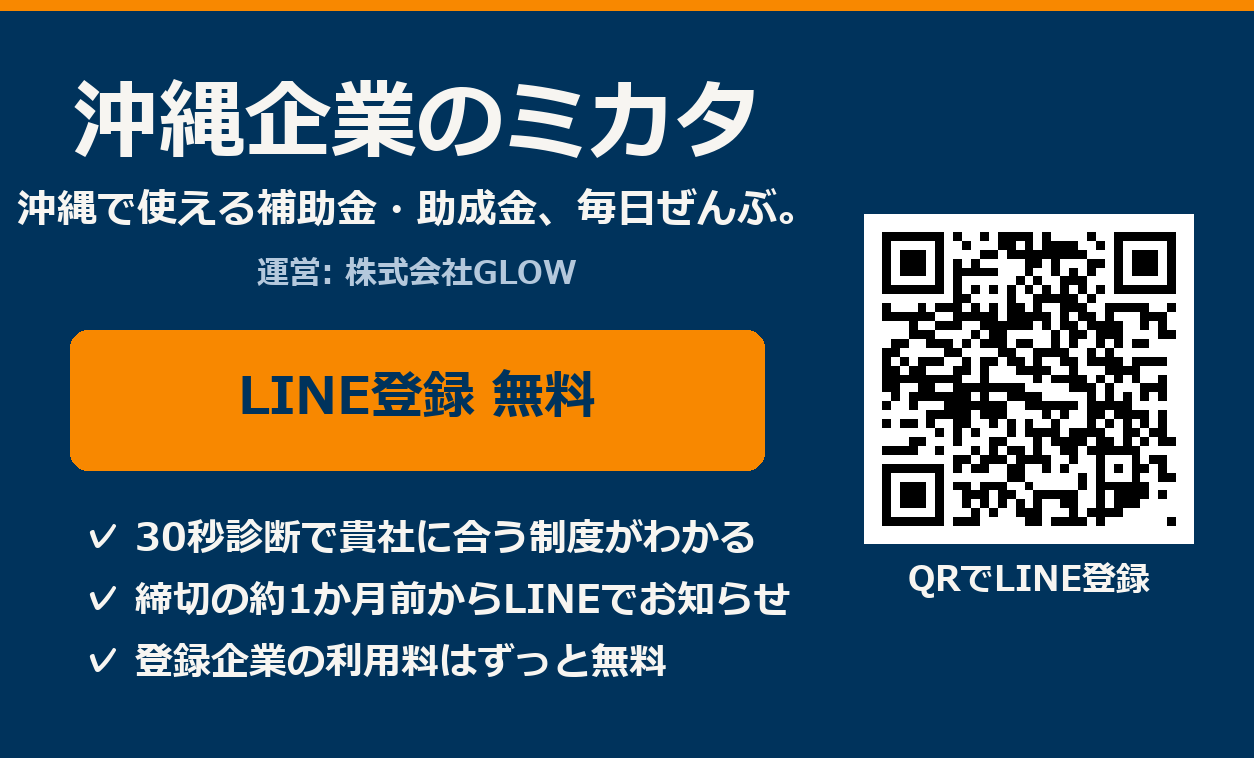
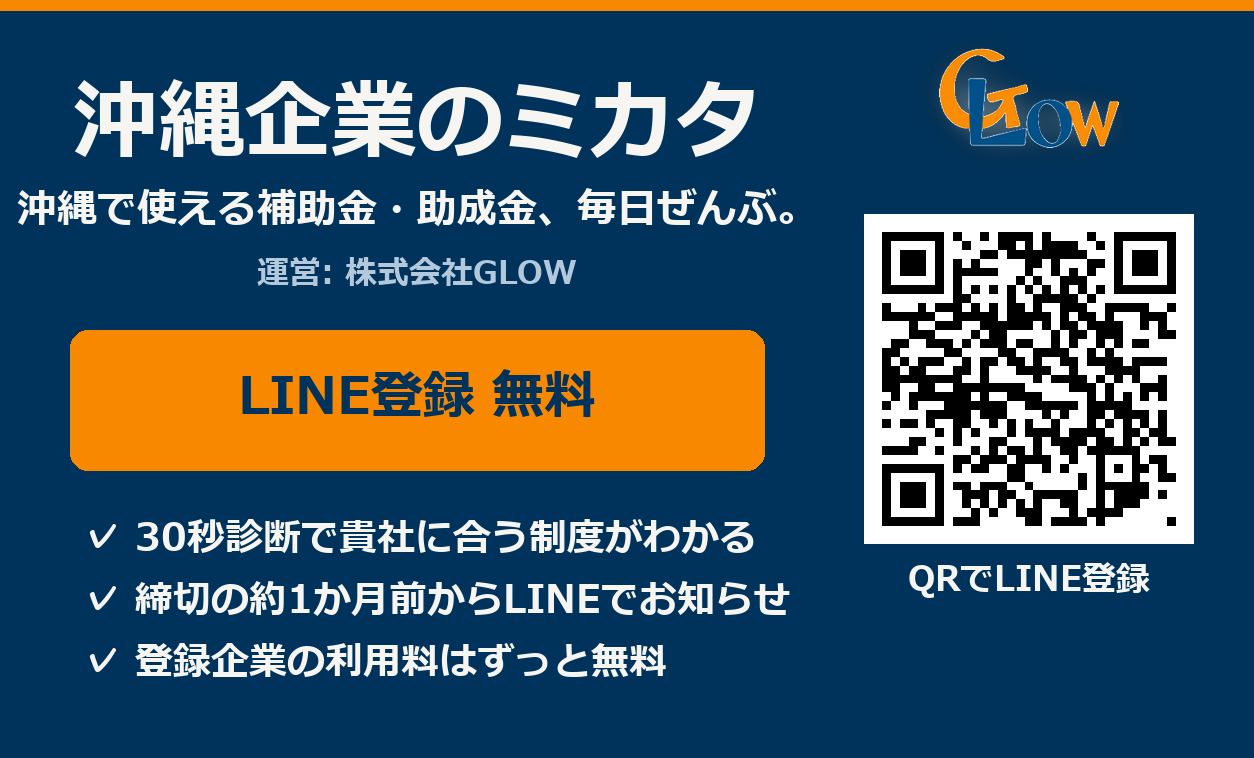
feat: QRカードにGLOWロゴを追加(透過+淡い光彩・紺地でもネイビー文字が沈まない加工)

Changed region(s): [[0.7464, 0.0607, 0.9019, 0.2124]]

diff --git a/scripts/generate_card.py b/scripts/generate_card.py
@@ -13,7 +13,7 @@ import os
 import sys
 
 import qrcode
-from PIL import Image, ImageDraw, ImageFont
+from PIL import Image, ImageDraw, ImageFilter, ImageFont
 
 try:
     sys.stdout.reconfigure(encoding="utf-8", errors="replace")
@@ -55,6 +55,26 @@ def center(draw, text, f, y, width, fill):
     draw.text(((width - w) / 2, y), text, font=f, fill=fill)
 
 
+def logo_with_glow(target_w):
+    """GLOWロゴ(透過)を、紺地でも沈まないよう淡い光彩つきで返す。
+    (2026-08-11 小柳さん指示: 白背景なし・薄く光っている感じ)"""
+    logo = Image.open(os.path.join(BASE, "site", "assets", "glow-logo.png")).convert("RGBA")
+    h = int(logo.height * target_w / logo.width)
+    logo = logo.resize((target_w, h), Image.LANCZOS)
+    pad = max(24, target_w // 6)
+    canvas = Image.new("RGBA", (target_w + pad * 2, h + pad * 2), (0, 0, 0, 0))
+    # ロゴのシルエットを暖白で作り、ぼかして薄く敷く=光彩
+    alpha = logo.split()[3]
+    glow = Image.new("RGBA", canvas.size, (0, 0, 0, 0))
+    glow.paste(Image.new("RGBA", logo.size, (255, 250, 235, 255)), (pad, pad), alpha)
+    glow = glow.filter(ImageFilter.GaussianBlur(pad // 2))
+    r, g, b, a = glow.split()
+    glow = Image.merge("RGBA", (r, g, b, a.point(lambda v: int(v * 0.6))))
+    canvas = Image.alpha_composite(canvas, glow)
+    canvas.paste(logo, (pad, pad), logo)
+    return canvas
+
+
 def card_meishi():
     """名刺サイズ 91x55mm @350dpi = 1254x758"""
     W, H = 1254, 758
@@ -80,6 +100,9 @@ def card_meishi():
     qr_cx = (W - 390) + 165
     d.text((qr_cx - d.textlength(label, font=f_label) / 2, H // 2 + 175),
            label, font=f_label, fill=WHITE)
+    # GLOWロゴ(光彩つき)をQRの上に
+    lg = logo_with_glow(180)
+    im.paste(lg, (int(qr_cx - lg.width / 2), 18), lg)
     os.makedirs(OUT, exist_ok=True)
     im.save(os.path.join(OUT, "card_meishi.png"))
     print("[ok] card_meishi.png (1254x758 / 91x55mm 350dpi)")
@@ -91,11 +114,14 @@ def card_a6():
     im = Image.new("RGB", (W, H), NAVY)
     d = ImageDraw.Draw(im)
     d.rectangle([0, 0, W, 14], fill=ORANGE)
-    center(d, "御社が使える補助金、", font(96), 120, W, WHITE)
-    center(d, "眠っていませんか?", font(96), 240, W, WHITE)
-    center(d, "沖縄で使える補助金・助成金を毎日自動チェック", font(46), 420, W, (200, 214, 228))
-    d.rounded_rectangle([120, 540, W - 120, 700], radius=24, fill=ORANGE)
-    center(d, "30秒診断 無料", font(84), 570, W, NAVY)
+    # GLOWロゴ(光彩つき)を最上部中央に
+    lg = logo_with_glow(230)
+    im.paste(lg, (int((W - lg.width) / 2), 34), lg)
+    center(d, "御社が使える補助金、", font(96), 250, W, WHITE)
+    center(d, "眠っていませんか?", font(96), 370, W, WHITE)
+    center(d, "沖縄で使える補助金・助成金を毎日自動チェック", font(46), 530, W, (200, 214, 228))
+    d.rounded_rectangle([120, 630, W - 120, 790], radius=24, fill=ORANGE)
+    center(d, "30秒診断 無料", font(84), 660, W, NAVY)
     # チェックリストはブロックごと中央配置(行頭の✓は縦に揃えたまま全体を中央へ。
     # 2026-08-11 小柳さん指示「文字関係を中央に揃える」)
     checks = [
@@ -108,11 +134,11 @@ def card_a6():
     block_w = max(d.textlength(s, font=f_check) for s in checks)
     x0 = (W - block_w) / 2
     for i, line in enumerate(checks):
-        d.text((x0, 790 + i * 84), line, font=f_check, fill=WHITE)
-    qr = make_qr(620)
-    im.paste(qr, ((W - 620) // 2, 1180))
-    center(d, "QRを読み取ってLINE登録", font(52), 1830, W, WHITE)
-    center(d, "沖縄企業のミカタ|運営: 株式会社GLOW", font(38), 1930, W, (180, 200, 220))
+        d.text((x0, 880 + i * 84), line, font=f_check, fill=WHITE)
+    qr = make_qr(560)
+    im.paste(qr, ((W - 560) // 2, 1280))
+    center(d, "QRを読み取ってLINE登録", font(52), 1870, W, WHITE)
+    center(d, "沖縄企業のミカタ|運営: 株式会社GLOW", font(38), 1955, W, (180, 200, 220))
     im.save(os.path.join(OUT, "card_a6.png"))
     print("[ok] card_a6.png (1447x2039 / A6 350dpi)")
 
